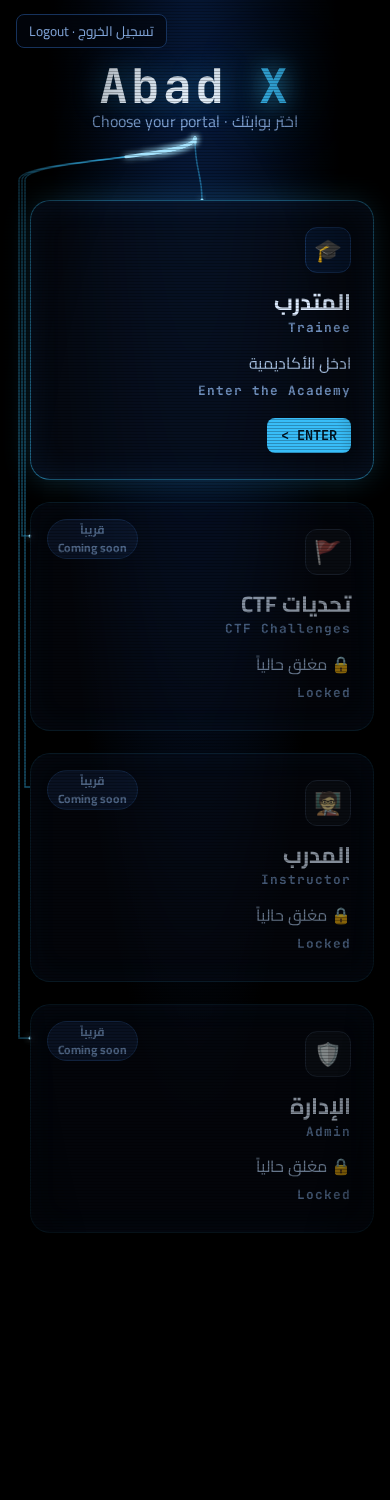
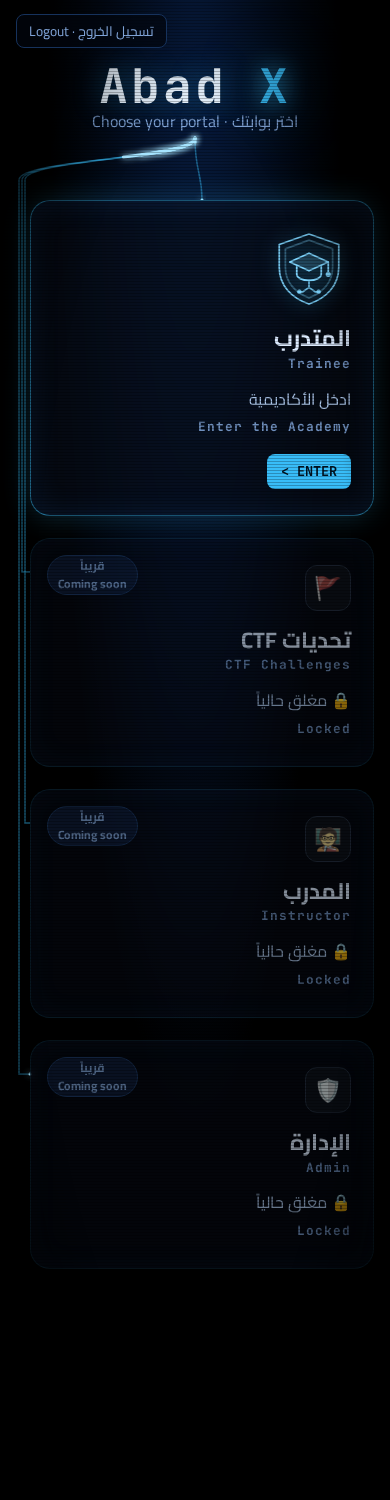
Portal: custom SVG academy emblem on Trainee card

diff --git a/portal.html b/portal.html
@@ -22,6 +22,7 @@ body:after{content:"";position:fixed;inset:0;pointer-events:none;z-index:9;backg
 .pc.on{border-color:rgba(56,189,248,.55);box-shadow:0 0 30px rgba(56,189,248,.25),inset 0 0 30px rgba(47,140,255,.12)}
 .pc.on:hover,.pc.on:focus-visible{transform:translateY(-4px);box-shadow:0 0 44px rgba(56,189,248,.45);outline:none;border-color:var(--b)}
 .pc.on .go{display:inline-block;margin-top:16px;font-family:var(--mono);font-size:.85rem;color:#00121f;background:var(--b);border-radius:8px;padding:5px 14px;font-weight:700}
+.emb{width:84px;height:84px;color:#7dd3fc;filter:drop-shadow(0 0 10px rgba(56,189,248,.75));margin-bottom:12px;display:block}
 .pc.lock{opacity:.6;cursor:not-allowed}.pc.lock .ic{filter:grayscale(.6)}
 .soon{position:absolute;top:16px;left:16px;font-size:.75rem;border:1px solid #1d3a66;color:#7fa3d6;border-radius:99px;padding:1px 10px;text-align:center;line-height:1.5}
 .wires{position:absolute;top:0;left:0;z-index:1;pointer-events:none;overflow:visible}
@@ -35,7 +36,7 @@ body:after{content:"";position:fixed;inset:0;pointer-events:none;z-index:9;backg
 <main id="stage">
 <h1 class="wm" id="wm">Abad <b>X</b><small>اختر بوابتك · Choose your portal</small></h1>
 <nav class="cards" aria-label="البوابات">
-<a class="pc on" href="home.html"><div class="ic" aria-hidden="true">🎓</div><h2>المتدرب <span class="en">Trainee</span></h2><p>ادخل الأكاديمية <span class="en">Enter the Academy</span></p><span class="go" aria-hidden="true">ENTER &gt;</span></a>
+<a class="pc on" href="home.html"><svg class="emb" viewBox="0 0 96 96" aria-hidden="true" fill="none" stroke="currentColor" stroke-width="2" stroke-linecap="round" stroke-linejoin="round"><path d="M48 8 82 20v26c0 21-14 35-34 42C28 81 14 67 14 46V20z" stroke-opacity=".9"/><path d="M48 15 75 25v21c0 17-11 29-27 35-16-6-27-18-27-35V25z" stroke-opacity=".35"/><path d="M26 40 48 30l22 10-22 10z" fill="currentColor" fill-opacity=".18"/><path d="M34 45v9c0 4 6 7 14 7s14-3 14-7v-9"/><path d="M70 40v12"/><circle cx="70" cy="54" r="2" fill="currentColor"/><path d="M48 61v8m0 0-7 5m7-5 7 5M41 74h-4m22 0h-4" stroke-opacity=".8"/><circle cx="37" cy="74" r="1.6" fill="currentColor"/><circle cx="59" cy="74" r="1.6" fill="currentColor"/></svg><h2>المتدرب <span class="en">Trainee</span></h2><p>ادخل الأكاديمية <span class="en">Enter the Academy</span></p><span class="go" aria-hidden="true">ENTER &gt;</span></a>
 <div class="pc lock" aria-disabled="true"><span class="soon">قريباً<br>Coming soon</span><div class="ic" aria-hidden="true">🚩</div><h2>تحديات CTF <span class="en">CTF Challenges</span></h2><p>🔒 مغلق حالياً <span class="en">Locked</span></p></div>
 <div class="pc lock" aria-disabled="true"><span class="soon">قريباً<br>Coming soon</span><div class="ic" aria-hidden="true">🧑🏫</div><h2>المدرب <span class="en">Instructor</span></h2><p>🔒 مغلق حالياً <span class="en">Locked</span></p></div>
 <div class="pc lock" aria-disabled="true"><span class="soon">قريباً<br>Coming soon</span><div class="ic" aria-hidden="true">🛡</div><h2>الإدارة <span class="en">Admin</span></h2><p>🔒 مغلق حالياً <span class="en">Locked</span></p></div>
